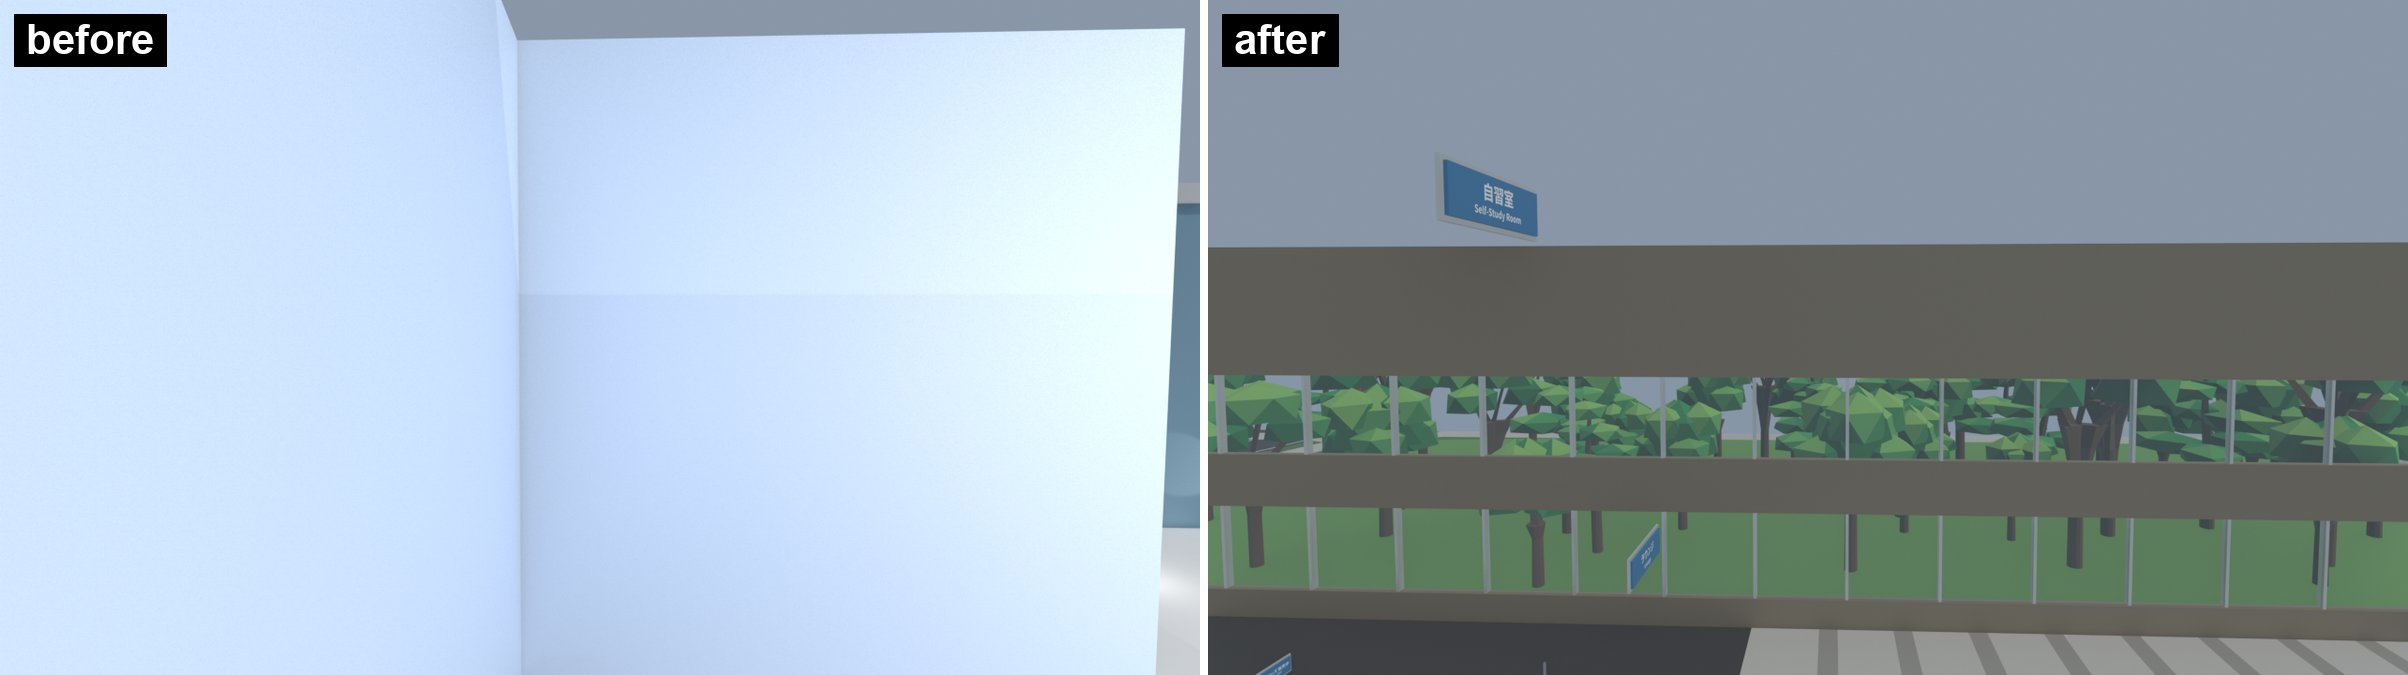
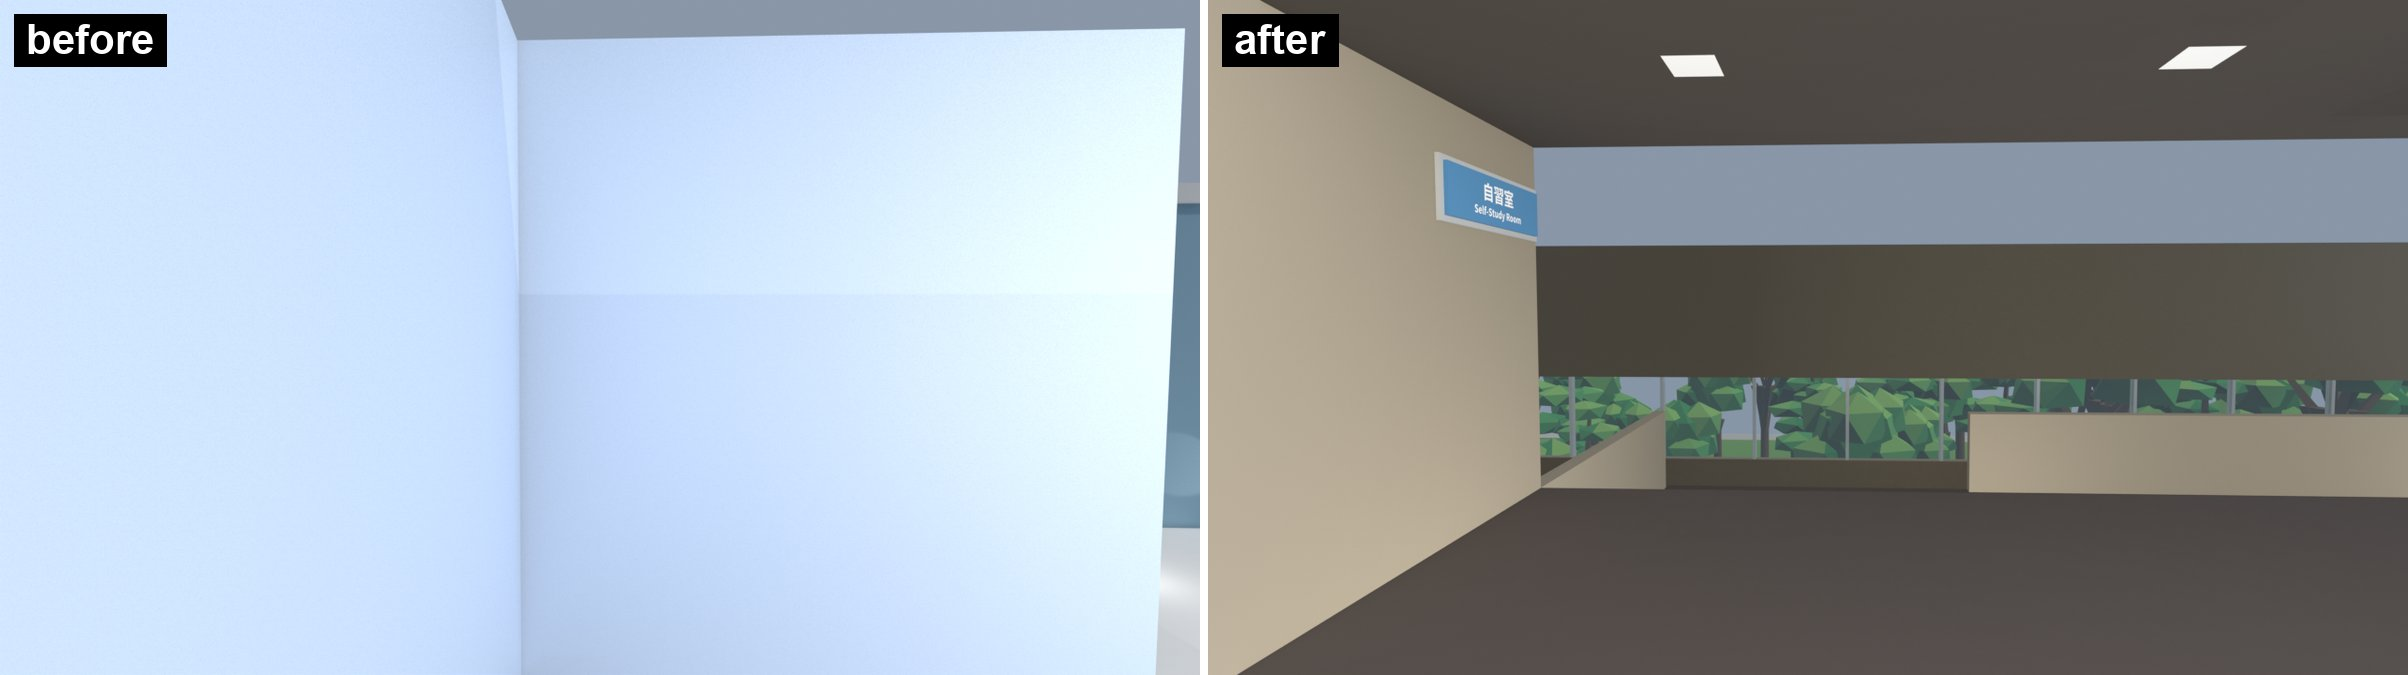
wip: lecture 屋内 2F・3F の東側の床・天井・壁とエスカレータの穴の手すり
plan_lecture_upper.py を足し、2F（z 4.6）・3F（z 8.8）の廊下の床と天井、南北の室の壁、西の閉じ、コアの箱、2F の東の縁の壁とガラス手すり、エスカレータの穴の手すりと垂れ壁、ダウンライトを作る。1F のエスカレータのホールの垂れ壁を 2F の床の下面（4.38）まで伸ばす。看板 2F・201・ラウンジ・3F・302・310・311・自習室の裏に壁ができた。

diff --git a/blender/kcd_interior/plan_lecture_upper.py b/blender/kcd_interior/plan_lecture_upper.py
@@ -1,0 +1,133 @@
+"""講義棟 2F・3F の東側（X ≥ 16.4）の廊下とエスカレータの穴（spec §1-4・§1-5）。
+
+2F（z 4.6）と 3F（z 8.8）の床と天井、南北の室の壁、西の閉じとコアの箱、エスカレータの穴の
+手すりと垂れ壁、廊下のダウンライト。2F の床は東端ホールの上（X 37.8 / 39.8 まで）も含む。
+エスカレータの段・2F の渡りとラウンジ・3F の弧の自習室は別のモジュールが作る。
+"""
+
+import math
+
+from . import kit, shell
+from . import plan_lecture_dims as D
+from . import plan_lecture_shell as SH
+
+T = shell.PART
+Y_CS = D.Y_ROOM_S1 - T * 0.5        # 南の室の壁の中心（面 19.64 / 19.80）
+Y_CN = D.Y_ROOM_N0 + T * 0.5        # 北の室の壁の中心（面 35.10 / 35.26）
+Y_SLAB0, Y_SLAB1 = Y_CS - T * 0.5, Y_CN + T * 0.5   # 床は南北の壁の外面まで
+X0 = D.UPPER_X0                     # 歩ける範囲の西端（西の閉じの壁の外面）
+X_WEST = X0 + T * 0.5               # 西の閉じの壁の中心
+X_CORE1 = D.SCREEN_X[1]             # 2F・3F のコアの箱の東面（看板 2F / 3F が付く）
+X_2F_E = D.EAST_VOID_B[0]           # 2F の床の東端（東端ホールの南の吹き抜けの縁 37.8）
+X_2F_WALL = D.EAST_VOID_A[0] - T * 0.5   # 2F の東の壁の中心（面 39.64 / 39.80）
+Y_2F_STRIP = D.EAST_VOID_A[1]       # X 37.8〜39.8 の床の南端（20.7）
+X_3F_E = 35.7                       # 3F の本体の東端（311 の東の壁。東は弧の自習室）
+X_LOUNGE0 = D.LOUNGE_2F[0][0]       # 2F の北の L 字のラウンジの西端（39.7）
+HOLE = (D.ESC_LAND_W[1], D.ESC_S_Y[0], D.ESC_LAND_E[0], D.ESC_N_Y[1])   # 22.6, 25.6, 30.6, 29.4
+CEIL_H = 3.0                        # 2F・3F の廊下の天井（床から）
+Z_TOP = D.F3 + CEIL_H               # 3F の天井（壁とコアの箱の上端）
+DOOR_201 = 27.3                     # 2F の南廊下で見える 201 の東の扉（閉じる）
+RAIL_H = 1.1
+HEADER_T = 0.1
+DOWN = 0.30                         # ダウンライトの一辺
+DOWN_CLEAR = 0.8                    # 吊り看板の吊り元からダウンライトまでの最小距離
+
+CORR = "lecture_concrete"
+CORE = "lecture_core_black"
+CEIL = "lecture_ceiling_dark"
+CARPET = "lecture_carpet_corridor"
+WHITE = "lecture_rail_white"
+GLASS_RAIL = "lecture_glass_rail"
+DOOR_WOOD = "lecture_door_wood"
+
+
+def _floors(c):
+    for z, x1 in ((D.F2, X_2F_E), (D.F3, X_3F_E)):
+        shell.floor(c.floor, X0, Y_SLAB0, x1, Y_SLAB1, z, CARPET, thickness=D.SLAB,
+                    side_mat=CORR, holes=(HOLE,))
+    shell.floor(c.floor, X_2F_E, Y_2F_STRIP, D.EAST_VOID_A[0], Y_SLAB1, D.F2, CARPET,
+                thickness=D.SLAB, side_mat=CORR)
+
+
+def _ceilings(c):
+    z2 = D.F2 + CEIL_H
+    shell.ceiling(c.wall, X0, D.Y_ROOM_S1, X_2F_E, D.Y_ROOM_N0, z2, CEIL, holes=(HOLE,))
+    shell.ceiling(c.wall, X_2F_E, Y_2F_STRIP, D.EAST_VOID_A[0], D.Y_ROOM_N0, z2, CEIL)
+    shell.ceiling(c.wall, X0, D.Y_ROOM_S1, X_3F_E, D.Y_ROOM_N0, Z_TOP, CEIL)
+    # 2F の天井の穴の縁から 3F の床の下面まで
+    x0, y0, x1, y1 = HOLE
+    z3 = D.F3 - D.SLAB
+    t = HEADER_T
+    kit.box(c.wall, x0 - t, y0 - t, z2, x1 + t, y0, z3, WHITE)
+    kit.box(c.wall, x0 - t, y1, z2, x1 + t, y1 + t, z3, WHITE)
+    kit.box(c.wall, x0 - t, y0, z2, x0, y1, z3, WHITE)
+    kit.box(c.wall, x1, y0, z2, x1 + t, y1, z3, WHITE)
+
+
+def _door_closed(mb, x, y, z):
+    """南廊下の側の面 y に付いた閉じた木の扉（幅 DOOR2_W・高さ DOOR2_H）。"""
+    hw, h = D.DOOR2_W * 0.5, D.DOOR2_H
+    kit.box(mb, x - hw - 0.06, y, z, x + hw + 0.06, y + 0.03, z + h + 0.06, "metal_dark")
+    kit.box(mb, x - hw, y + 0.03, z, x + hw, y + 0.06, z + h, DOOR_WOOD)
+    kit.box(mb, x + hw - 0.20, y + 0.06, z + 0.95, x + hw - 0.12, y + 0.10, z + 1.15,
+            "stainless")
+
+
+def _walls(c):
+    # 南の室の壁: 3F の本体の東端までは 2F・3F 通し、その東は 2F だけ
+    SH.part(c, (X0, Y_CS), (X_3F_E, Y_CS), D.F2, Z_TOP, mat=CORR)
+    SH.part(c, (X_3F_E, Y_CS), (X_2F_E, Y_CS), D.F2, D.F3, mat=CORR)
+    _door_closed(c.wall, DOOR_201, D.Y_ROOM_S1, D.F2)
+    # 北の室の壁: 同じく 3F の東端まで通し、その東は 2F のラウンジの西端まで
+    SH.part(c, (X0, Y_CN), (X_3F_E, Y_CN), D.F2, Z_TOP, mat=CORR)
+    SH.part(c, (X_3F_E, Y_CN), (X_LOUNGE0, Y_CN), D.F2, D.F3, mat=CORR)
+    # 西の閉じとコアの箱（東面に 2F / 3F の看板）
+    SH.part(c, (X_WEST, Y_SLAB0), (X_WEST, Y_SLAB1), D.F2, Z_TOP, mat=CORR)
+    kit.box_nb(c.wall, X0, D.Y_CORE0, D.F2, X_CORE1, D.Y_CORE1, Z_TOP, CORE)
+    # 2F の東の縁: 北の吹き抜けに面した壁、南の吹き抜けに面したガラス手すり
+    SH.part(c, (X_2F_WALL, Y_2F_STRIP), (X_2F_WALL, D.BRIDGE_2F[1]), D.F2, D.F3, mat=CORR)
+    shell.railing(c.wall, [(X_2F_E, D.Y_ROOM_S1), (X_2F_E, Y_2F_STRIP),
+                           (X_2F_WALL - T * 0.5, Y_2F_STRIP)],
+                  D.F2, h=RAIL_H, mat="stainless", glass=GLASS_RAIL)
+
+
+def _hole_rails(c):
+    """エスカレータの穴の手すり。乗り口・降り口になる短辺は開ける。"""
+    x0, y0, x1, y1 = HOLE
+    for pts in ([(x0, y0), (x1, y0)], [(x0, y1), (x1, y1)]):
+        shell.railing(c.wall, pts, D.F2, h=RAIL_H, mat="stainless", glass=GLASS_RAIL)
+    # 3F: 南の列は東端で、北の列は西端で降りる。反対の端は下の階へ落ちる縁
+    for pts in ([(x0, D.ESC_S_Y[1]), (x0, y0), (x1, y0)],
+                [(x0, y1), (x1, y1), (x1, D.ESC_N_Y[0])]):
+        shell.railing(c.wall, pts, D.F3, h=RAIL_H, mat="stainless", glass=GLASS_RAIL)
+
+
+def _clear(x, y, z0, z1, roots):
+    return all(math.hypot(x - rx, y - ry) >= DOWN_CLEAR or not z0 <= rz < z1
+               for rx, ry, rz in roots)
+
+
+def downlight_centers(z_floor, x1, roots):
+    """z_floor の階の廊下のダウンライトの中心 (x, y)。吊り看板の吊り元の近くは避ける。"""
+    pts = [(x, y) for y in (21.65, 24.55, 30.45, 33.3)
+           for x in (19.0 + 3.0 * i for i in range(7)) if x < x1 - 0.5]
+    return [p for p in pts if _clear(p[0], p[1], z_floor, z_floor + CEIL_H, roots)]
+
+
+def _lights(c, roots):
+    h = DOWN * 0.5
+    for z_floor, x1 in ((D.F2, X_2F_E), (D.F3, X_3F_E)):
+        z = z_floor + CEIL_H
+        pts = downlight_centers(z_floor, x1, roots)
+        for x, y in pts:
+            kit.plate(c.wall, x - h, y - h, x + h, y + h, z - 0.005, "light_panel", flip=True)
+        c.lights_from(pts, z, step=2)
+
+
+def build(c, roots):
+    """roots は吊り看板の吊り元 (x, y, z) の列。"""
+    _floors(c)
+    _ceilings(c)
+    _walls(c)
+    _hole_rails(c)
+    _lights(c, roots)

diff --git a/blender/kcd_interior/plan_lecture_core.py b/blender/kcd_interior/plan_lecture_core.py
@@ -21,7 +21,8 @@ X_LOBBY_E = D.LOBBY_X[1] + T * 0.5    # ロビーの東の壁の中心（面 7.2
 X_101_E, T_101_E = 28.425, 0.35       # 101 と東端ホールの間の壁（面 28.25 / 28.60）
 X_CORR_E = D.X_STEP                   # 中廊下の東端（ここから東端ホール）
 X_GLASS = 17.65                       # 仕切りのガラスの線
-ESC_HALL = (X_GLASS, D.Y_CORE0, X_CORR_E, D.Y_CORE1)   # 天井 4.0 のエスカレータのホール
+ESC_HALL = (X_GLASS, D.Y_CORE0, X_CORR_E, D.Y_CORE1)   # エスカレータのホール（上は 2F の床）
+Z_SLAB2_UNDER = D.F2 - D.SLAB         # 2F の床スラブの下面（エスカレータのホールの天井）
 ATRIUM_RING = (-5.8, 20.5, 9.6, 34.5)  # 吹き抜けの各階の輪（歩けない。奥の壁の内面まで）
 PARAPET_T, PARAPET_H = 0.15, 1.2
 
@@ -125,7 +126,7 @@ def _glass_screen(c):
     y0, y1 = D.Y_CORE0, D.Y_CORE1
     kit.box(c.wall, x0, y0, 0.0, x1, y1, 1.0, CORE)
     kit.box(c.wall, X_GLASS - 0.01, y0, 1.0, X_GLASS + 0.01, y1, D.CEIL_CORR, GLASS)
-    kit.box(c.wall, X_GLASS - 0.08, y0, D.CEIL_CORR, X_GLASS + 0.08, y1, 4.0, CORE)
+    kit.box(c.wall, X_GLASS - 0.08, y0, D.CEIL_CORR, X_GLASS + 0.08, y1, Z_SLAB2_UNDER, CORE)
 
 
 def _ceilings(c):
@@ -137,7 +138,7 @@ def _ceilings(c):
     shell.ceiling(c.wall, X_GLASS, D.Y_CORE1, X_CORR_E, D.Y_ROOM_N0, z, CEIL)
     shell.ceiling(c.wall, D.LOBBY_X[0], Y_IN_S, D.LOBBY_X[1], D.Y_ROOM_S1, z, CEIL)
     for y in (D.Y_CORE0, D.Y_CORE1):
-        _header(c.wall, X_GLASS, X_CORR_E, y, z, 4.0, thick=0.1, mat=CORR)
+        _header(c.wall, X_GLASS, X_CORR_E, y, z, Z_SLAB2_UNDER, thick=0.1, mat=CORR)
     for ya, yb in ((D.Y_ROOM_S1, D.Y_CORE0), (D.Y_CORE1, D.Y_ROOM_N0)):
         kit.box(c.wall, X_CORR_E - 0.05, ya, z, X_CORR_E + 0.05, yb, 4.0, CORR)
     shell.ceiling(c.wall, D.R101_X[0], Y_IN_S, D.R101_X[1], D.Y_101_N, D.CEIL_101,

diff --git a/blender/kcd_interior/plan_lecture.py b/blender/kcd_interior/plan_lecture.py
@@ -2,6 +2,7 @@
 
 組み立ての順:
 躯体（plan_lecture_shell）→ 中廊下・コア・入口ロビー・吹き抜け（plan_lecture_core）→
+2F・3F の東側の廊下とエスカレータの穴（plan_lecture_upper）→
 101 の段床と 270 席（plan_lecture_hall）・黒板と木の壁（plan_lecture_101）→ 看板（plan_lecture_signs）→ POI・NPC・カメラ。
 寸法・POI・NPC・カメラ・看板の表は plan_lecture_dims が持つ。
 """
@@ -12,6 +13,7 @@ from . import plan_lecture_dims as D
 from . import plan_lecture_hall as HALL
 from . import plan_lecture_shell as SHELL
 from . import plan_lecture_signs as SIGNS
+from . import plan_lecture_upper as UPPER
 
 # 家具のメッシュ（furn_lecture_<nn>_<区画名>）
 FURN = ("hall_seats", "hall_desks", "hall_front", "corridor", "lobby", "signs")
@@ -23,6 +25,7 @@ def build(c):
     M = {kind: c.furn(kind) for kind in FURN}
     SHELL.build(c)
     CORE.build(c, M, SIGNS.hang_roots())
+    UPPER.build(c, SIGNS.hang_roots())
     HALL.build_floor(c.floor)
     seats = HALL.build_seats(c, M["hall_seats"], M["hall_desks"])
     R101.build(M["hall_front"])
